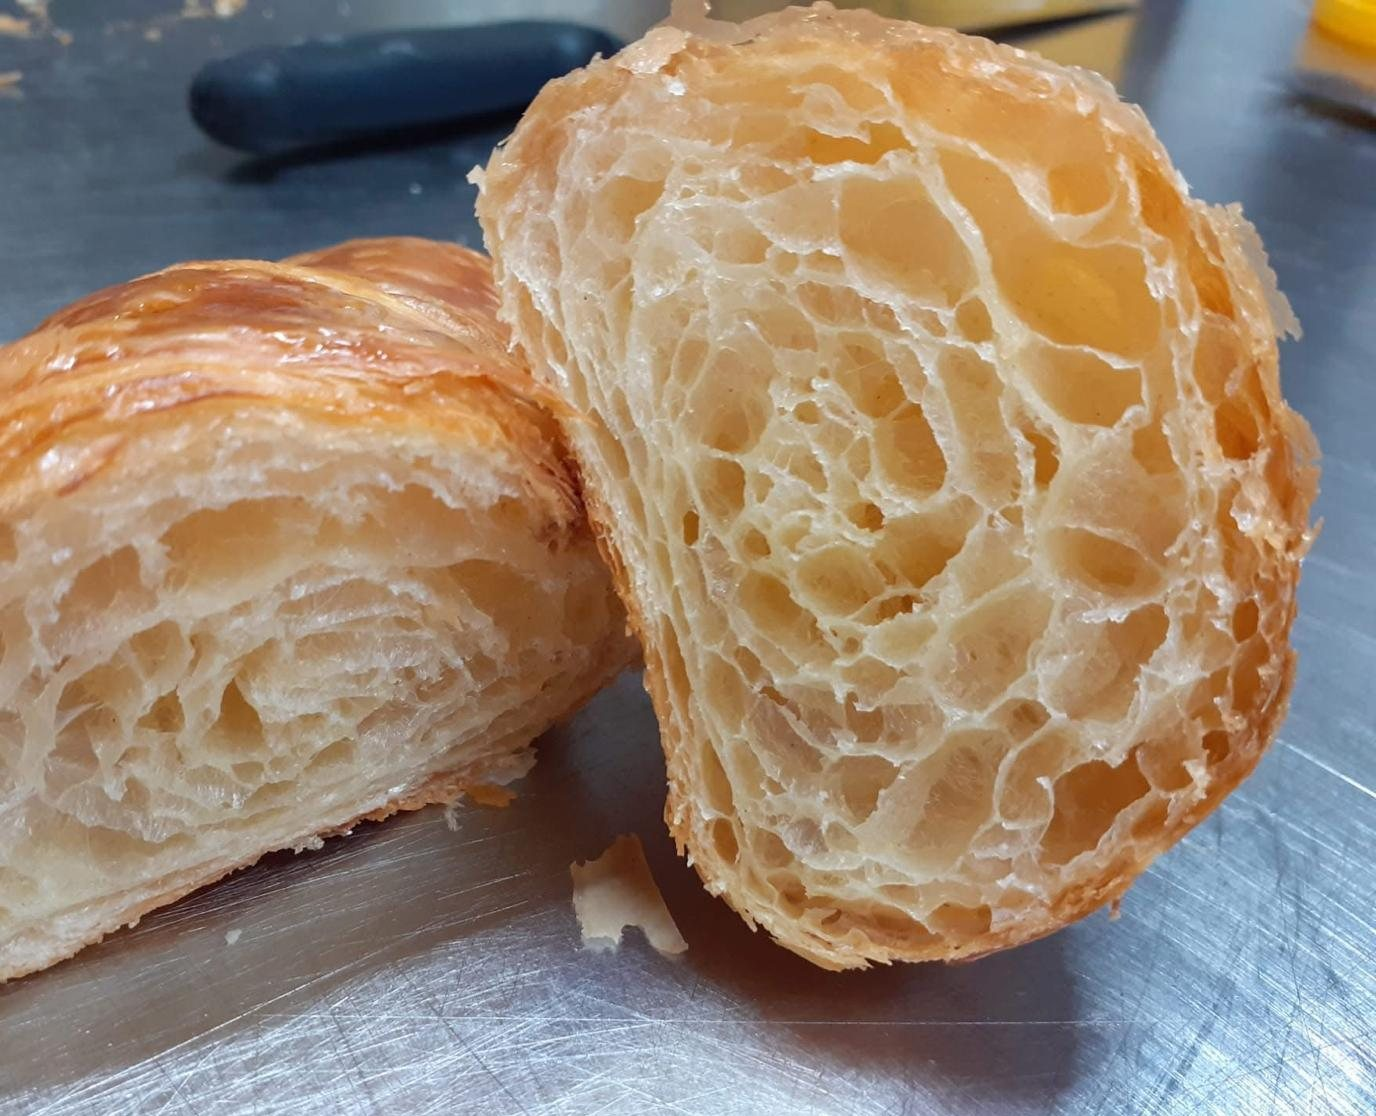
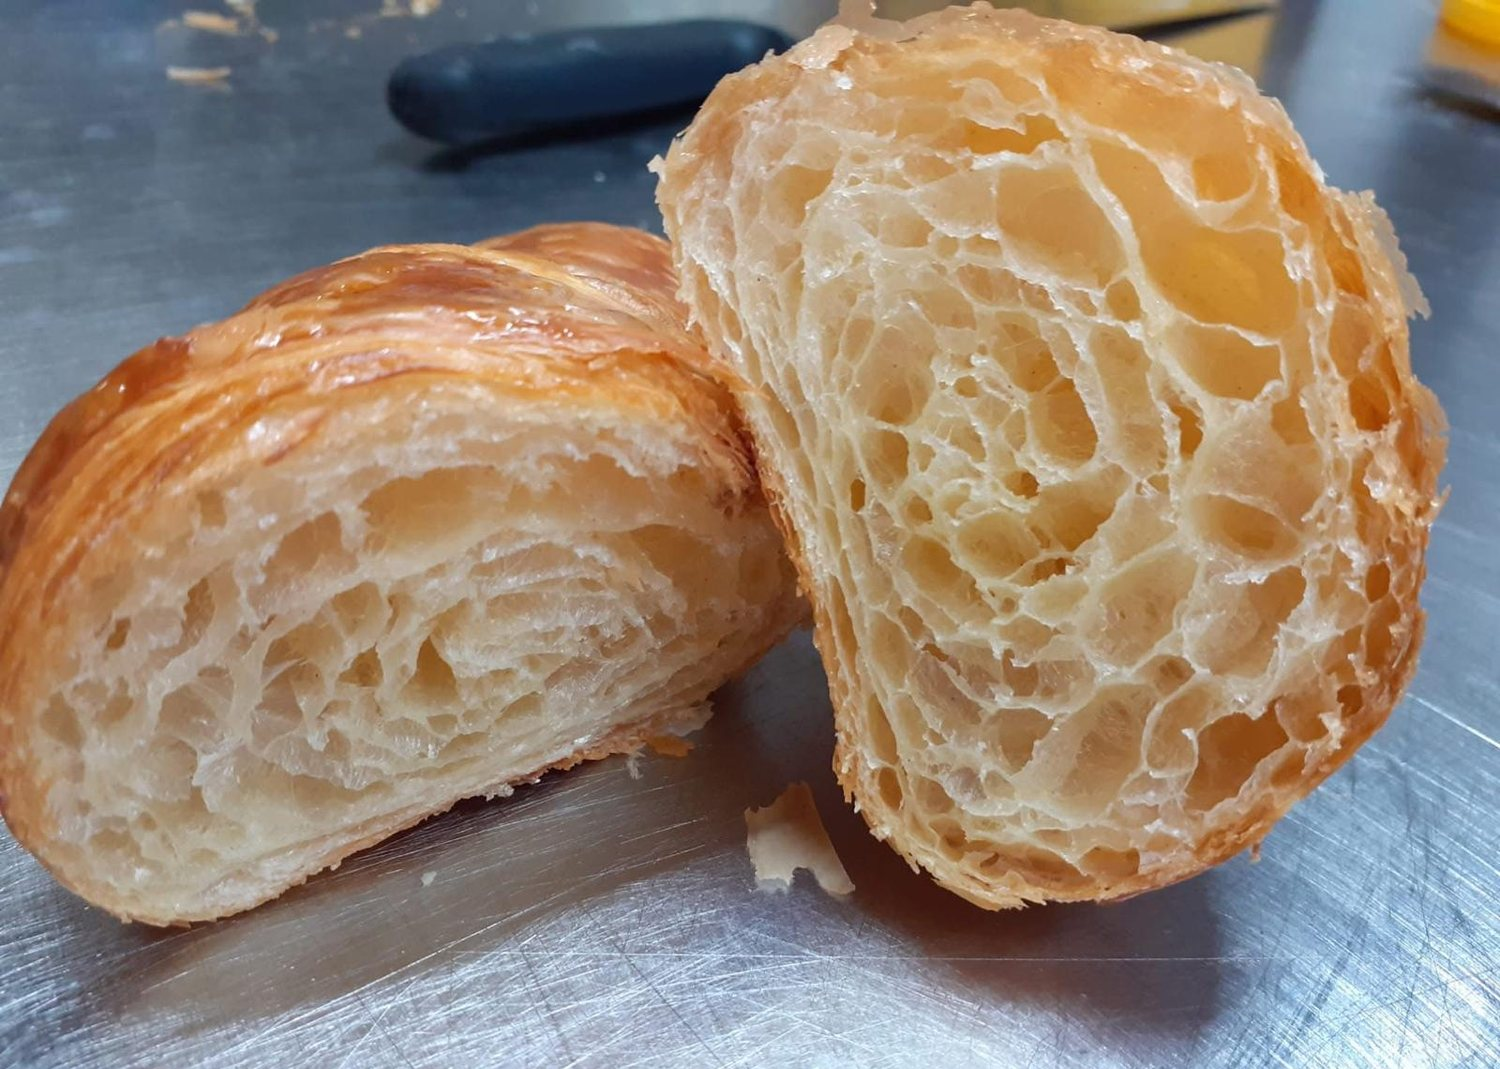
Hero: sopra la sala col bancone, sotto la sfogliatura, tutto sfocato
Torna il velo crema col titolo in marrone. Da schermo largo le due foto
stanno una sopra l'altra, da telefono affiancate: croissant a sinistra,
sala a destra. La sala è ritagliata sul bancone.

diff --git a/styles.css b/styles.css
@@ -217,79 +217,57 @@ h1 em, h2 em { color: var(--gold); font-style: italic; }
 .menu-button[aria-expanded="true"] span:nth-child(2) { opacity: 0; }
 .menu-button[aria-expanded="true"] span:nth-child(3) { transform: translateY(-7px) rotate(-45deg); }
 
-/* ---------- hero a schermo diviso ---------- */
+/* ---------- hero ---------- */
 
-/* due mezze schermate piene: a sinistra la sala col titolo sopra, a destra la
-   sfogliatura. Niente riquadri, niente cornici: solo le due foto */
+/* lo sfondo è una foto sola in due metà: sopra la sala, sotto la sfogliatura.
+   Sfocate quel tanto che basta perché restino atmosfera e non contenuto */
 .hero {
-  display: grid;
-  grid-template-columns: 1fr 1fr;
-  min-height: min(780px, 86vh);
-  isolation: isolate;
-}
-.hero-panel {
   position: relative;
-  margin: 0;
+  display: flex;
+  align-items: center;
+  min-height: min(780px, 86vh);
+  padding: clamp(48px, 6vw, 90px) var(--pad);
+  isolation: isolate;
   overflow: hidden;
-  background: var(--sand);
 }
-.hero-panel > img {
+.hero-split {
   position: absolute;
   inset: 0;
+  z-index: -2;
+  display: grid;
+  grid-template-rows: 1fr 1fr;
+}
+.hero-panel { position: relative; overflow: hidden; background: var(--sand); }
+.hero-panel img {
   width: 100%;
   height: 100%;
   object-fit: cover;
+  filter: blur(3px);
+  transform: scale(1.04); /* la sfocatura mangerebbe i bordi */
 }
-/* le due foto entrano con una lenta chiusura di zoom, a velocità diverse:
-   il taglio in mezzo si legge come una composizione sola */
-.hero-panel-place > img { object-position: 50% 58%; animation: heroIn 3200ms var(--ease) both; }
-.hero-panel-bake > img { object-position: 58% 50%; animation: heroInBake 3200ms var(--ease) both; }
+/* la sala inquadrata sul bancone, la sfogliatura sul nido d'ape */
+.hero-panel-place img { object-position: 50% 56%; animation: heroIn 3000ms var(--ease) both; }
+.hero-panel-bake img { object-position: 50% 52%; animation: heroInBake 3000ms var(--ease) both; }
 
-/* il velo caldo sta solo sulla sala: serve al titolo, non alla foto */
-.hero-scrim {
+/* velo crema, si spegne dove le foto devono tornare a vedersi */
+.hero-veil {
   position: absolute;
   inset: 0;
-  background:
-    linear-gradient(to right, rgba(30, 18, 7, 0.88) 0%, rgba(30, 18, 7, 0.74) 52%, rgba(30, 18, 7, 0.38) 100%),
-    linear-gradient(to top, rgba(30, 18, 7, 0.55), transparent 55%);
+  z-index: -1;
+  background: linear-gradient(
+    to right,
+    rgba(247, 242, 233, 0.95) 0%,
+    rgba(247, 242, 233, 0.92) 42%,
+    rgba(247, 242, 233, 0.6) 56%,
+    rgba(247, 242, 233, 0.14) 68%,
+    rgba(247, 242, 233, 0) 78%
+  );
 }
 
-.hero-panel-place { display: flex; align-items: center; }
-.hero-copy {
-  position: relative;
-  z-index: 1;
-  max-width: 560px;
-  padding: clamp(40px, 4.6vw, 78px) clamp(24px, 3.4vw, 64px) clamp(40px, 4.6vw, 78px) var(--pad);
-  color: var(--cream);
-}
+.hero-copy { max-width: 580px; }
 .hero h1 { font-size: var(--h1); }
-.hero-copy h1 em { color: var(--gold-light); }
-.hero-copy .eyebrow { color: var(--gold-light); }
-.hero-lede { max-width: 460px; margin-top: 24px; color: rgba(247, 242, 233, 0.82); font-size: 0.95rem; }
+.hero-lede { max-width: 480px; margin-top: 24px; color: var(--brown-soft); font-size: 0.95rem; }
 .hero-actions { display: flex; align-items: center; gap: 28px; margin-top: 32px; }
-/* sul fondo scuro il pieno e il vuoto dei pulsanti si invertono */
-.hero-copy .button { border-color: var(--cream); background: var(--cream); color: var(--brown); }
-.hero-copy .button:hover { background: transparent; color: var(--cream); }
-.hero-copy .under-link { border-bottom-color: rgba(247, 242, 233, 0.45); color: var(--cream); }
-.hero-copy .under-link:hover { border-color: var(--gold-light); color: var(--gold-light); }
-
-/* la didascalia galleggia dentro la foto, in una pastiglia di vetro */
-.hero-panel-bake { box-shadow: -1px 0 0 rgba(247, 242, 233, 0.55); }
-.hero-panel-bake figcaption {
-  position: absolute;
-  bottom: clamp(18px, 2.2vw, 30px);
-  left: clamp(18px, 2.2vw, 30px);
-  z-index: 1;
-  padding: 8px 15px 7px;
-  border-radius: 999px;
-  background: rgba(255, 253, 248, 0.7);
-  -webkit-backdrop-filter: blur(14px) saturate(1.3);
-  backdrop-filter: blur(14px) saturate(1.3);
-  color: var(--brown);
-  font-size: 0.54rem;
-  letter-spacing: 0.18em;
-  text-transform: uppercase;
-}
 
 /* ---------- fascia numeri ---------- */
 
@@ -562,12 +540,12 @@ footer a:hover { color: var(--cream); }
 /* lo sfondo dell'hero entra con una lenta chiusura di zoom, le due copie
    si muovono insieme mantenendo lo scarto di scala */
 @keyframes heroIn {
-  from { transform: scale(1.14); }
-  to { transform: scale(1); }
+  from { transform: scale(1.12); }
+  to { transform: scale(1.04); } /* la sfocatura mangerebbe i bordi */
 }
 @keyframes heroInBake {
-  from { transform: scale(1.15); }
-  to { transform: scale(1); }
+  from { transform: scale(1.14); }
+  to { transform: scale(1.04); }
 }
 
 /* con cinque voci più il pulsante la barra si stringe prima di impilarsi */
@@ -602,19 +580,29 @@ footer a:hover { color: var(--cream); }
   .gallery-grid { grid-template-columns: repeat(2, 1fr); }
 }
 
-/* sotto gli 860 le due metà si impilano: la sala con il titolo, poi la foto */
+/* da telefono le due metà girano: affiancate, croissant a sinistra e sala a
+   destra, con il velo che scende dall'alto per tenere leggibile il titolo */
 @media (max-width: 860px) {
   .story-pair, .story-pair.is-reversed { grid-template-columns: minmax(0, 1fr); }
   .story-pair.is-reversed .story-text { order: 2; }
   .page-banner { aspect-ratio: 3 / 2; }
-  .hero { grid-template-columns: minmax(0, 1fr); min-height: 0; }
-  .hero-panel-place { min-height: min(600px, 72vh); }
-  .hero-panel-bake { min-height: 40vh; box-shadow: 0 -1px 0 rgba(247, 242, 233, 0.55); }
-  .hero-copy { max-width: none; padding-right: var(--pad); }
-  .hero-scrim {
-    background:
-      linear-gradient(to right, rgba(30, 18, 7, 0.86) 0%, rgba(30, 18, 7, 0.7) 100%),
-      linear-gradient(to top, rgba(30, 18, 7, 0.5), transparent 60%);
+  .hero { align-items: start; min-height: min(680px, 88vh); }
+  .hero-copy { max-width: none; }
+  .hero-split { grid-template-rows: 1fr; grid-template-columns: 1fr 1fr; }
+  .hero-panel-bake { grid-area: 1 / 1; }
+  .hero-panel-place { grid-area: 1 / 2; }
+  /* colonne strette: ognuna inquadrata sul suo soggetto */
+  .hero-panel-place img { object-position: 30% 52%; }
+  .hero-panel-bake img { object-position: 78% 50%; }
+  .hero-veil {
+    background: linear-gradient(
+      180deg,
+      rgba(247, 242, 233, 0.95) 0%,
+      rgba(247, 242, 233, 0.93) 48%,
+      rgba(247, 242, 233, 0.68) 64%,
+      rgba(247, 242, 233, 0.14) 82%,
+      rgba(247, 242, 233, 0) 94%
+    );
   }
 }
 
@@ -658,5 +646,5 @@ footer a:hover { color: var(--cream); }
 @media (prefers-reduced-motion: reduce) {
   html { scroll-behavior: auto; }
   *, *::after { transition-duration: 1ms !important; animation-duration: 1ms !important; }
-  .hero-panel > img { animation: none; }
+  .hero-panel img { animation: none; }
 }

diff --git a/index.html b/index.html
@@ -130,42 +130,44 @@
     <main>
       <!-- schermo diviso: la sala a sinistra con sopra il titolo, la sfogliatura
            a destra. Due foto piene, nessuna cornice -->
+      <!-- lo sfondo è diviso in due: sopra la sala, sotto la sfogliatura. Appena
+           sfocate, con il velo crema che tiene leggibile il titolo -->
       <section id="home" class="hero">
-        <div class="hero-panel hero-panel-place">
-          <img
-            src="assets/photos/hero-luogo.jpg"
-            alt="La sala della pasticceria con il soffitto a travi e le luci accese"
-            width="1080"
-            height="1080"
-            fetchpriority="high"
-          />
-          <div class="hero-scrim" aria-hidden="true"></div>
-
-          <div class="hero-copy">
-            <p class="eyebrow reveal">Pasticceria &amp; Caffetteria · Arcade (TV)</p>
-            <h1 class="reveal">La dolcezza<br /><em>ha un luogo.</em></h1>
-            <p class="hero-lede reveal">
-              Dalla colazione del mattino alla pasticceria mignon, fino alle torte
-              per i vostri momenti più belli: tutto fatto a mano, ogni giorno,
-              con ingredienti scelti.
-            </p>
-            <div class="hero-actions reveal">
-              <a class="button" href="#mondo">Scopri Chiarato</a>
-              <a class="under-link" href="#contatti">Vieni a trovarci</a>
-            </div>
+        <div class="hero-split" aria-hidden="true">
+          <div class="hero-panel hero-panel-place">
+            <img
+              src="assets/photos/hero-luogo.jpg"
+              alt=""
+              width="1400"
+              height="933"
+              fetchpriority="high"
+            />
+          </div>
+          <div class="hero-panel hero-panel-bake">
+            <img
+              src="assets/photos/hero-sfoglia.jpg"
+              alt=""
+              width="1500"
+              height="1069"
+              fetchpriority="high"
+            />
           </div>
         </div>
+        <div class="hero-veil" aria-hidden="true"></div>
 
-        <figure class="hero-panel hero-panel-bake">
-          <img
-            src="assets/photos/hero-sfoglia.jpg"
-            alt="Croissant tagliato a metà: la sfogliatura a nido d'ape appena sfornata"
-            width="1376"
-            height="1116"
-            fetchpriority="high"
-          />
-          <figcaption>La sfogliatura, ogni mattina</figcaption>
-        </figure>
+        <div class="hero-copy">
+          <p class="eyebrow reveal">Pasticceria &amp; Caffetteria · Arcade (TV)</p>
+          <h1 class="reveal">La dolcezza<br /><em>ha un luogo.</em></h1>
+          <p class="hero-lede reveal">
+            Dalla colazione del mattino alla pasticceria mignon, fino alle torte
+            per i vostri momenti più belli: tutto fatto a mano, ogni giorno, con
+            ingredienti scelti.
+          </p>
+          <div class="hero-actions reveal">
+            <a class="button" href="#mondo">Scopri Chiarato</a>
+            <a class="under-link" href="#contatti">Vieni a trovarci</a>
+          </div>
+        </div>
       </section>
 
       <section class="credentials" aria-label="Chiarato in breve">
